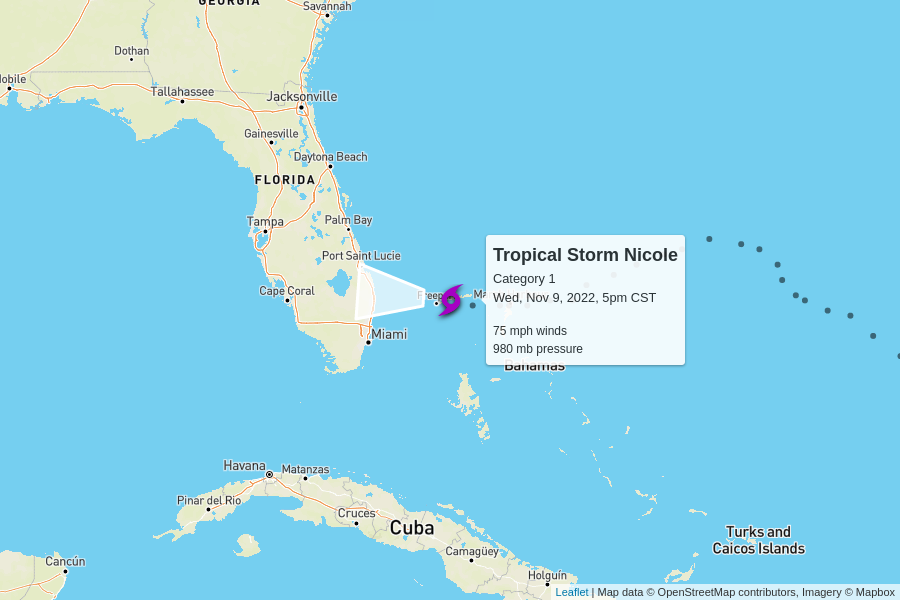
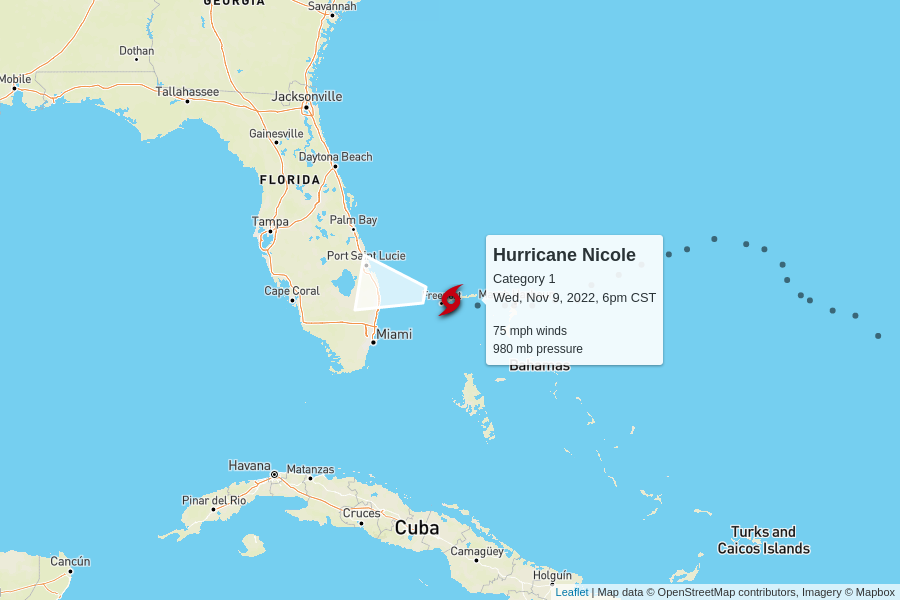
automatic update

diff --git a/docs/index.html b/docs/index.html
@@ -99,8 +99,8 @@
       <tr>
         <td colspan="6" class="storm category-1" >
           <h2>
-            Tropical Storm Nicole - Category 1
-            <p class="updated">last updated <span data-time>2022-11-09T23:00:00.000Z</span></p>
+            Hurricane Nicole - Category 1
+            <p class="updated">last updated <span data-time>2022-11-10T00:00:00.000Z</span></p>
           </h2>
         </td>
       </tr>
@@ -118,9 +118,9 @@
         <td>75 mph</td>
         <td>980 mb</td>
         <td>
-          12 mph to the west
+          13 mph to the west
           <br/>
-          <span style="display: inline-block; font-size: 1.5em; transform: rotate(275deg);">↑</span>
+          <span style="display: inline-block; font-size: 1.5em; transform: rotate(280deg);">↑</span>
         </td>
         <td><a href="https://raw.githubusercontent.com/mgwalker/atlantic-hurricanes/main/data/csv/AL172022.csv">AL172022.csv</a></td>
         <td><a href="https://www.nhc.noaa.gov/archive/2022/NICOLE.shtml?">NHC advisories</a></td>
